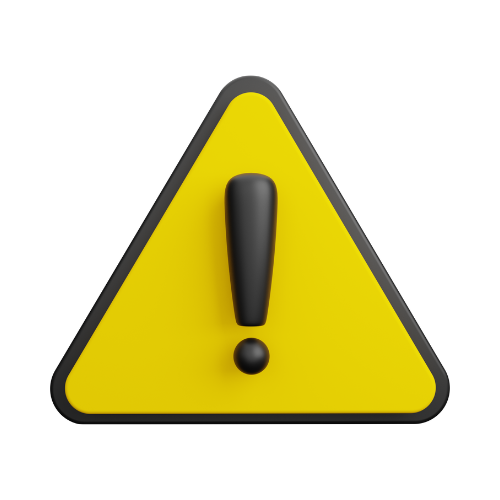
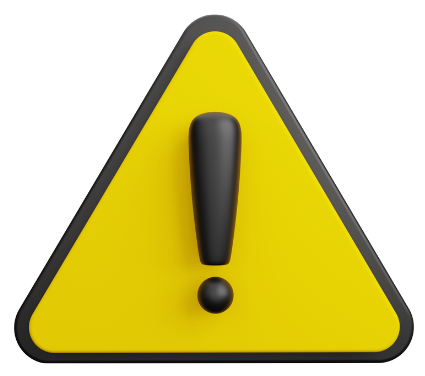
Solucionando el problema de los sliders

Changed region(s): [[0.0306, 0.0293, 0.9788, 0.9654]]

diff --git a/src/components/ConsultaOnline/LandingPage/TestimonioCard.jsx b/src/components/ConsultaOnline/LandingPage/TestimonioCard.jsx
@@ -2,22 +2,47 @@ import { useEffect, useState } from 'react';
 
 export function TestimonioCard() {
 	const [user, setUser] = useState(null);
+	const [error, setError] = useState(null);
 
 	useEffect(() => {
-		fetch('https://randomuser.me/api/')
-			.then((response) => response.json)
-			.then((data) => setUser(data.results[0]));
+		const fetchData = async () => {
+			try {
+				const response = await Promise.race([
+					fetch('https://randomuser.me/api/'),
+					new Promise((_, reject) =>
+						setTimeout(
+							() => reject(new Error('Request Timed out')),
+							5000
+						)
+					),
+				]);
+				const data = await response.json();
+				const [user] = data.results;
+				setUser(user);
+			} catch (error) {
+				setError(error);
+			}
+		};
+
+		fetchData();
 	}, []);
+
+	if (error) {
+		return <h1>Error: {error.message}</h1>;
+	}
 
 	if (!user) {
 		return <h1 className='text-md text-center'>Loading...</h1>;
 	}
 
+	const { picture, name, login } = user;
+
 	return (
-		<div className='bg-gradient-linear-light text-white dark:bg-gradient-linear-dark mx-5 p-4 rounded-xl'>
+		<div className='w-full max-w-[520px] mx-auto h-full relative bg-gradient-linear-light text-white dark:bg-gradient-linear-dark p-4 pt-12 mt-12 rounded-xl cursor-pointer'>
 			<img
-				src={user.picture.thumbnail}
-				alt={user.name.first}
+				src={picture.medium}
+				alt={name.first}
+				className='w-15 border-white border-2 -top-10 left-1/2 transform -translate-x-[50%] rounded-full absolute'
 			/>
 			<p className='text-sm text-center'>
 				Lorem ipsum dolor sit amet, consectetur adipisicing elit. Fuga
@@ -26,10 +51,10 @@ export function TestimonioCard() {
 				ullam ipsum vero incidunt accusamus.
 			</p>
 			<h2 className='text-sm text-center uppercase font-bold font-my-montserrat'>
-				{user.name.first} {user.name.last}
+				{name.first} {name.last}
 			</h2>
 			<h3 className='text-sm text-center font-bold text-yellow-500'>
-				@{user.login.username}
+				@{login.username}
 			</h3>
 		</div>
 	);

diff --git a/src/components/ConsultaOnline/LandingPage/Testimonios.jsx b/src/components/ConsultaOnline/LandingPage/Testimonios.jsx
@@ -2,9 +2,18 @@ import { TestimonioCard } from './TestimonioCard';
 
 // Import Swiper React components
 import { Swiper, SwiperSlide } from 'swiper/react';
+import SwiperCore, { Navigation, Pagination, Scrollbar, A11y } from 'swiper';
+
+SwiperCore.use([Navigation, Pagination, Scrollbar, A11y]);
 
 // Import Swiper styles
-import 'swiper/css';
+import 'swiper/swiper.min.css';
+import 'swiper/components/navigation/navigation.min.css';
+import 'swiper/components/pagination/pagination.min.css';
+import 'swiper/components/scrollbar/scrollbar.min.css';
+
+// Import Swiper custom styles
+import './Styles/swiper_slides.css';
 
 export function Testimonios() {
 	return (
@@ -15,6 +24,9 @@ export function Testimonios() {
 			<Swiper
 				spaceBetween={50}
 				slidesPerView={1}
+				navigation
+				pagination={{ clickable: true }}
+				scrollbar={{ draggable: true }}
 				onSlideChange={() => console.log('slide change')}
 				onSwiper={(swiper) => console.log(swiper)}>
 				<SwiperSlide>

diff --git a/src/components/ConsultaOnline/Considerations/Considerations.jsx b/src/components/ConsultaOnline/Considerations/Considerations.jsx
@@ -36,7 +36,7 @@ export function Considerations() {
 				text='Al realizar el proceso de la consulta en línea, tendrás un plazo de siete días continuos, para concretar la misma posterior a esto deberás ingresar como una nueva consulta.'
 				imgSrc={WarningIcon}
 				customConsiderationsCard='text-white bg-gradient-linear-light dark:bg-gradient-linear-dark rounded-md p-3 mx-auto my-6 relative'
-				customImgClass='w-16 absolute -right-3 -top-6 animate-bounce'
+				customImgClass='max-w-[50px] h-fit absolute -right-2 -top-2 animate-bounce'
 			/>
 			<div className='w-full flex justify-center mb-5'>
 				<NextNavButton next='/consideraciones/formulario/paso1' />

diff --git a/src/components/ConsultaOnline/LandingPage/Styles/swiper_slides.css b/src/components/ConsultaOnline/LandingPage/Styles/swiper_slides.css
@@ -1,0 +1,20 @@
+.swiper-button-next,
+.swiper-button-prev {
+	color: #fff;
+	background-color: #fe2828;
+	border-radius: 50%;
+	width: 40px;
+	height: 40px;
+}
+
+.swiper-button-next::after,
+.swiper-button-prev::after {
+	width: 100%;
+	height: 100%;
+	border-style: solid;
+	border-width: 2px;
+}
+
+.swiper-pagination {
+	margin-top: 40px;
+}

diff --git a/src/components/DarkButton.jsx b/src/components/DarkButton.jsx
@@ -27,7 +27,7 @@ export function DarkButton() {
 
 	const handleScroll = () => {
 		const position = window.scrollY;
-		const specificPosition = 100;
+		const specificPosition = 500;
 		if (position > specificPosition) {
 			setIsScrolled(true);
 		} else {
